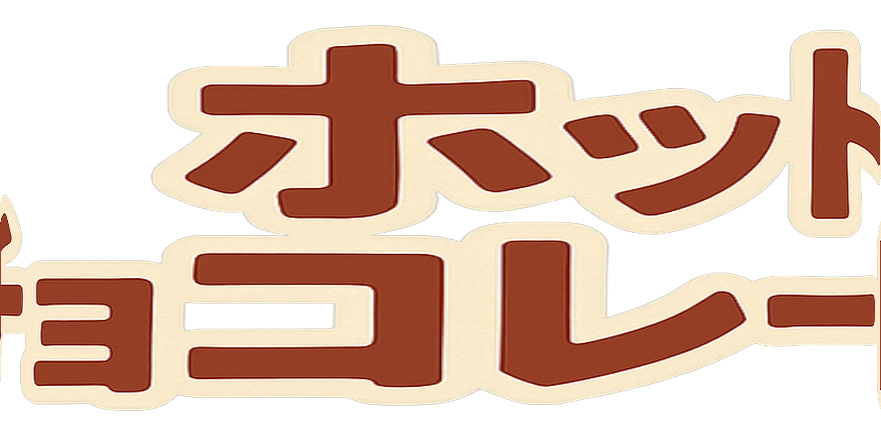
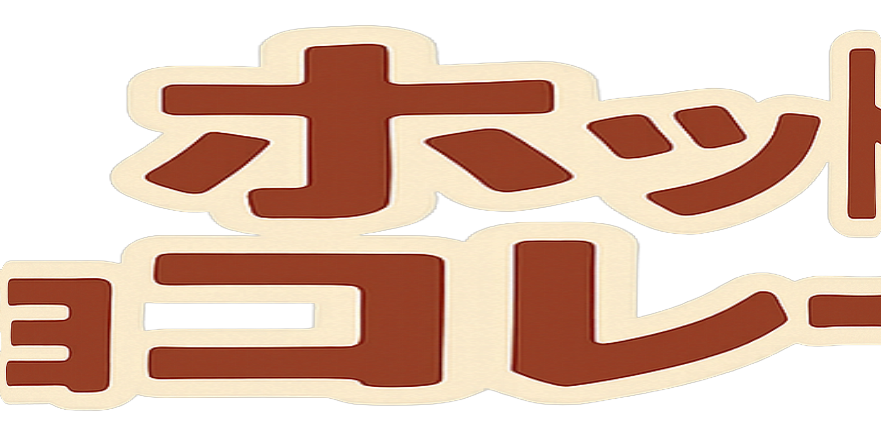
second commit

diff --git a/src/wrap_text_inverse.py b/src/wrap_text_inverse.py
@@ -79,6 +79,9 @@ def main():
     ap.add_argument("--L", type=float, default=None, help="label arc length in pixels (L_px). default: use crop width")
     ap.add_argument("--margin", type=int, default=40, help="crop margin (px)")
     ap.add_argument("--alpha_threshold", type=int, default=1, help="alpha threshold (0..255)")
+    ap.add_argument("--cam", type=float, default=None,
+                help="camera distance in pixels for perspective. "
+                     "If omitted, use orthographic.")
     args = ap.parse_args()
 
     img = Image.open(args.input).convert("RGBA")
@@ -95,7 +98,12 @@ def main():
     crop = img.crop((x0c, y0c, x1c, y1c))
     L_px = float(args.L) if args.L is not None else float(crop.width)
 
-    warped, theta_max = warp_cylinder_inverse(crop, D_px=args.D, L_px=L_px)
+    if args.cam is None:
+        warped, theta_max = warp_cylinder_inverse(crop, D_px=args.D, L_px=L_px)
+    else:
+        warped, theta_max = warp_cylinder_inverse_perspective(
+            crop, D_px=args.D, L_px=L_px, cam_dist_px=float(args.cam)
+        )
 
     # paste back into full-size transparent canvas
     canvas = Image.new("RGBA", img.size, (0, 0, 0, 0))
@@ -107,6 +115,82 @@ def main():
     print(f"theta_max = {theta_max * 180/math.pi:.2f} deg (label half-span). "
           f"{'OVER 90deg (backside)' if theta_max > math.pi/2 else 'within 90deg'}")
 
+def theta_from_x_perspective(x_img: float, R: float, d: float) -> float:
+    """
+    Invert x_img = d*R*sinθ / (d + R*(1-cosθ))  for θ in [-pi/2, pi/2]
+    using t = tan(θ/2) closed-form (minus branch).
+    """
+    if abs(x_img) < 1e-12:
+        return 0.0
+
+    # Discriminant inside sqrt:
+    disc = d*d*R*R - (x_img*x_img) * d * (d + 2.0*R)
+    if disc < 0.0:
+        # out of valid range due to rounding or too-large x_img
+        disc = 0.0
+
+    num = d*R - math.sqrt(disc)  # minus branch
+    den = x_img * (d + 2.0*R)
+
+    t = num / den
+    return 2.0 * math.atan(t)
+
+
+def warp_cylinder_inverse_perspective(
+    crop: Image.Image,
+    D_px: float,
+    L_px: float,
+    cam_dist_px: float,
+    W_out: int | None = None
+):
+    """
+    Inverse-map cylindrical wrap (perspective projection).
+    y stays unchanged; only x is warped.
+    All units are pixels.
+    """
+    src = np.asarray(crop).astype(np.float32)
+    H, W, C = src.shape
+    if W_out is None:
+        W_out = W
+
+    R = D_px / 2.0
+    d = cam_dist_px
+    if R <= 0:
+        raise ValueError("D_px must be > 0")
+    if d <= 0:
+        raise ValueError("cam_dist_px must be > 0")
+
+    theta_max = L_px / (2.0 * R)
+    theta_vis = min(theta_max, math.pi / 2.0)
+
+    # Max visible x_img at theta_vis (for scaling u -> x_img)
+    x_img_max = (d * R * math.sin(theta_vis)) / (d + R * (1.0 - math.cos(theta_vis)))
+    if x_img_max <= 0:
+        raise ValueError("x_img_max <= 0 (check parameters)")
+
+    x_c = (W - 1) / 2.0
+    xcp = (W_out - 1) / 2.0
+
+    out = np.zeros((H, W_out, C), dtype=np.float32)
+
+    for x_out in range(W_out):
+        u = (x_out - xcp) / xcp if xcp != 0 else 0.0
+        x_img = u * x_img_max  # desired projected coordinate
+
+        theta = theta_from_x_perspective(x_img, R=R, d=d)
+
+        s = R * theta  # arc length (px)
+        x_src = x_c + (s / L_px) * (W - 1)
+
+        if x_src < 0 or x_src > (W - 1):
+            continue
+
+        x0 = int(np.floor(x_src))
+        x1 = min(x0 + 1, W - 1)
+        t = x_src - x0
+        out[:, x_out, :] = (1 - t) * src[:, x0, :] + t * src[:, x1, :]
+
+    return Image.fromarray(np.clip(out, 0, 255).astype(np.uint8), "RGBA"), theta_max
 
 if __name__ == "__main__":
     main()

diff --git a/README.md b/README.md
@@ -1,41 +1,60 @@
 # wrap_text_inverse
 
-## 日本語説明
-
-### 概要
-
-`wrap_text_inverse.py`
-は、透過PNG画像（文字やロゴなど）を**円筒に巻き付けた見え方に変換するPythonスクリプト**です。
-
-縦方向のピクセル位置は変更せず、横方向のみを数学的に円筒投影（逆写像 /
-inverse mapping）で変換します。
-
-物理モデルに基づいた変換を行うため、
-
--   円筒の直径（ピクセル単位）
--   巻き付けるラベルの弧長（ピクセル単位）
-
-を入力パラメータとして指定できます。
+Cylindrical Label Projection with Inverse Mapping (Orthographic +
+Perspective)
 
 ------------------------------------------------------------------------
 
-## 数学的モデル
+# 日本語版
+
+## 概要
+
+`wrap_text_inverse.py` は、透過PNG画像（文字やロゴなど）を
+**円筒に巻き付けた見え方に変換するPythonスクリプト**です。
+
+-   縦方向のピクセルは変更しません
+-   横方向のみ数学的に変換します
+-   逆写像（inverse mapping）を使用するため穴あきが発生しません
+-   正射影（orthographic）と透視投影（perspective）の両方に対応
+
+------------------------------------------------------------------------
+
+## 数学モデル
+
+### 1. 基本パラメータ
 
 -   円筒直径: `D_px`
 -   半径: `R = D_px / 2`
 -   ラベル弧長: `L_px`
 -   入力画像幅: `W`
+-   カメラ距離（透視時）: `d`
 
-入力座標 x を円筒上の角度 θ に変換:
+------------------------------------------------------------------------
+
+## 正射影（Orthographic Projection）
+
+円筒角度:
 
 θ = (L_px / R) \* (x - x_c) / (W - 1)
 
-正面投影では:
+投影:
 
 x_proj = R \* sin(θ)
 
-本プログラムでは穴あきを防ぐために**inverse
-mapping（逆写像）**を採用しています。
+------------------------------------------------------------------------
+
+## 透視投影（Perspective Projection）
+
+3D円筒座標:
+
+X(θ) = R sinθ\
+Z(θ) = R (1 - cosθ)
+
+透視投影式:
+
+x_img(θ) = d R sinθ / ( d + R (1 - cosθ) )
+
+本プログラムでは解析的逆解（t = tan(θ/2)）を用いて θ を求めています。
 
 ------------------------------------------------------------------------
 
@@ -53,63 +72,69 @@ pip install pillow numpy
 
 ## 使用方法
 
+### 正射影
+
 python wrap_text_inverse.py input.png -o output.png --D 800
 
-### オプション
+### 透視投影
 
---D : 円筒直径（px）※必須\
+python wrap_text_inverse.py input.png -o output.png --D 800 --cam 2000
+
+------------------------------------------------------------------------
+
+## オプション
+
+--D : 円筒直径（px）【必須】\
 --L : ラベル弧長（px）※省略時は画像幅\
+--cam : カメラ距離（px）※指定時は透視投影\
 --margin : 自動トリミング余白（既定40px）\
 --alpha_threshold : 透過判定しきい値
 
-例:
+------------------------------------------------------------------------
 
-python wrap_text_inverse.py text.png -o wrapped.png --D 600 --L 500
+## パラメータ調整の目安
+
+-   強く巻き付けたい → D を小さく
+-   緩やかにしたい → D を大きく
+-   透視効果を強く → cam を小さく
+-   正射影に近づける → cam を大きく
+
+推奨初期値: cam ≈ 3R 〜 10R
 
 ------------------------------------------------------------------------
 
-## パラメータ調整のヒント
-
--   より強く巻き付けたい → D を小さくする\
--   緩やかにしたい → D を大きくする\
--   L を小さくすると、より中央寄りに圧縮される
-
-------------------------------------------------------------------------
-
-# English Description
+# English Version
 
 ## Overview
 
-`wrap_text_inverse.py` transforms a transparent PNG (text or logo) into
-a **cylindrical wrapped projection**.
+`wrap_text_inverse.py` converts a transparent PNG into a **cylindrical
+wrapped projection**.
 
-The vertical pixel positions remain unchanged.\
-Only the horizontal axis is transformed using a mathematically correct
-cylindrical projection model with inverse mapping.
+Features:
 
-You can control:
-
--   Cylinder diameter (in pixels)
--   Label arc length (in pixels)
+-   Vertical pixels remain unchanged
+-   Horizontal axis warped mathematically
+-   Inverse mapping (no pixel holes)
+-   Supports orthographic and perspective projection
 
 ------------------------------------------------------------------------
 
-## Mathematical Model
-
--   Cylinder diameter: `D_px`
--   Radius: `R = D_px / 2`
--   Label arc length: `L_px`
--   Input width: `W`
-
-Mapping input x to cylinder angle θ:
+## Orthographic Projection
 
 θ = (L_px / R) \* (x - x_c) / (W - 1)
 
-Front projection:
-
 x_proj = R \* sin(θ)
 
-The implementation uses inverse mapping to avoid pixel holes.
+------------------------------------------------------------------------
+
+## Perspective Projection
+
+X(θ) = R sinθ\
+Z(θ) = R (1 - cosθ)
+
+x_img(θ) = d R sinθ / ( d + R (1 - cosθ) )
+
+θ is solved analytically using the half-angle substitution.
 
 ------------------------------------------------------------------------
 
@@ -127,11 +152,13 @@ pip install pillow numpy
 
 ## Usage
 
+Orthographic:
+
 python wrap_text_inverse.py input.png -o output.png --D 800
 
-Example:
+Perspective:
 
-python wrap_text_inverse.py text.png -o wrapped.png --D 600 --L 500
+python wrap_text_inverse.py input.png -o output.png --D 800 --cam 2000
 
 ------------------------------------------------------------------------
 
@@ -152,10 +179,4 @@ the following conditions:
 The above copyright notice and this permission notice shall be included
 in all copies or substantial portions of the Software.
 
-THE SOFTWARE IS PROVIDED "AS IS", WITHOUT WARRANTY OF ANY KIND, EXPRESS
-OR IMPLIED, INCLUDING BUT NOT LIMITED TO THE WARRANTIES OF
-MERCHANTABILITY, FITNESS FOR A PARTICULAR PURPOSE AND NONINFRINGEMENT.
-IN NO EVENT SHALL THE AUTHORS OR COPYRIGHT HOLDERS BE LIABLE FOR ANY
-CLAIM, DAMAGES OR OTHER LIABILITY, WHETHER IN AN ACTION OF CONTRACT,
-TORT OR OTHERWISE, ARISING FROM, OUT OF OR IN CONNECTION WITH THE
-SOFTWARE OR THE USE OR OTHER DEALINGS IN THE SOFTWARE.
+THE SOFTWARE IS PROVIDED "AS IS", WITHOUT WARRANTY OF ANY KIND.
